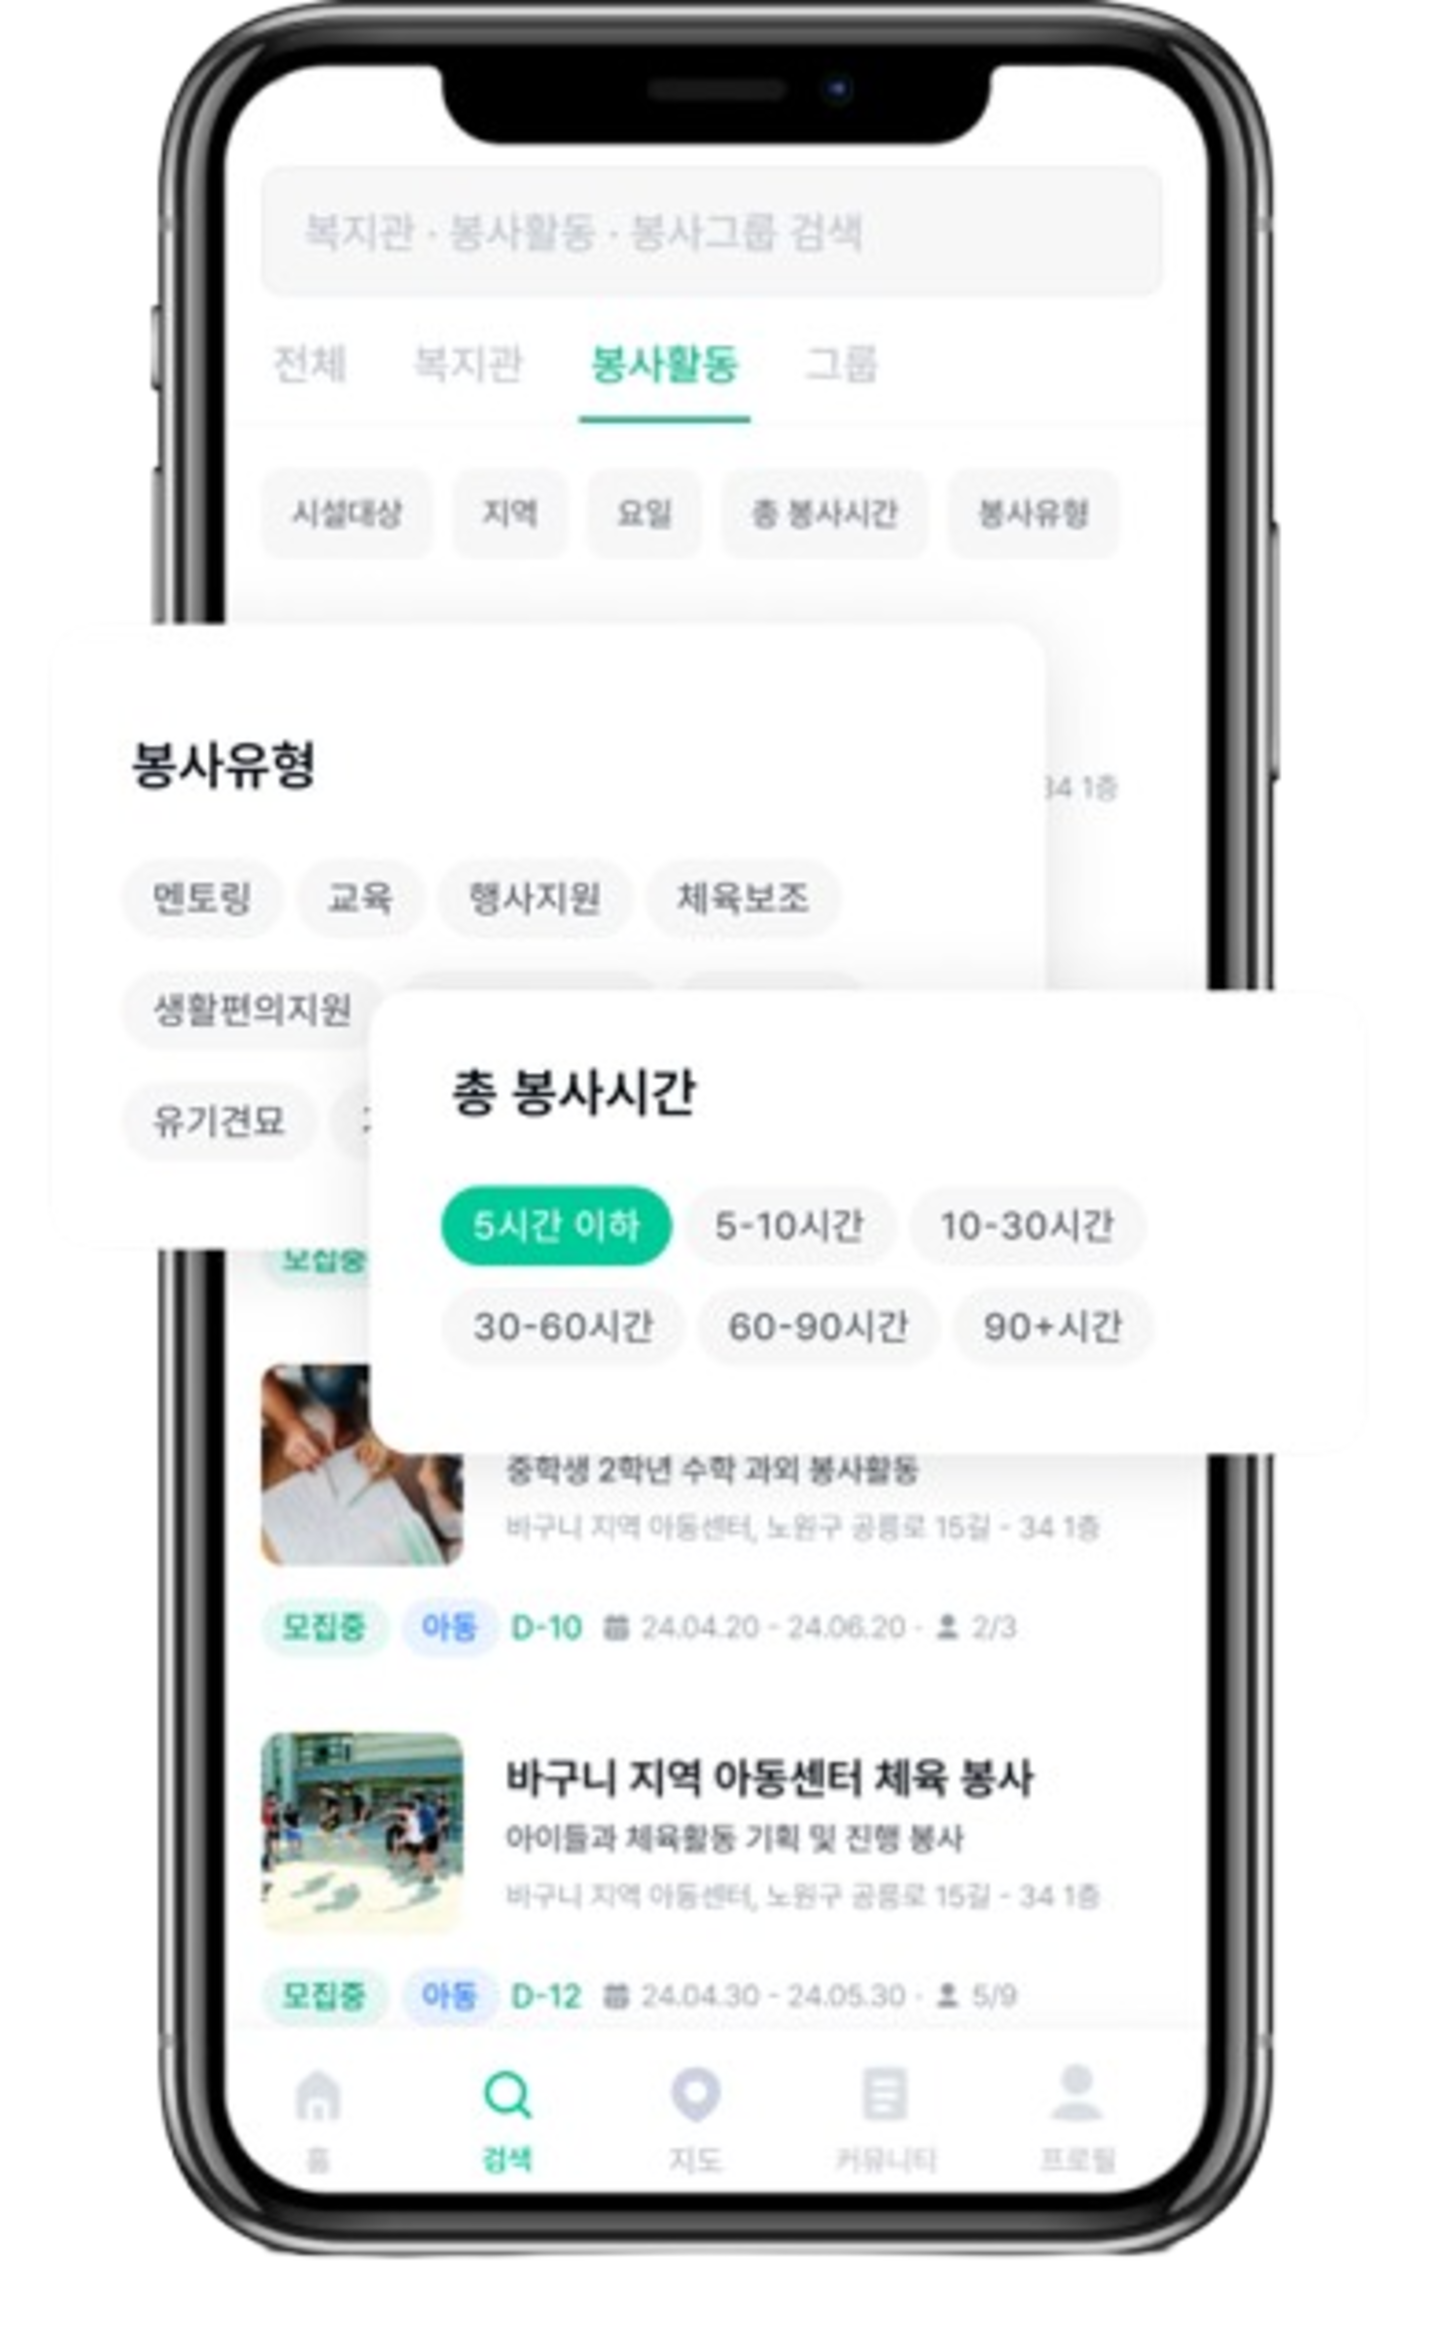
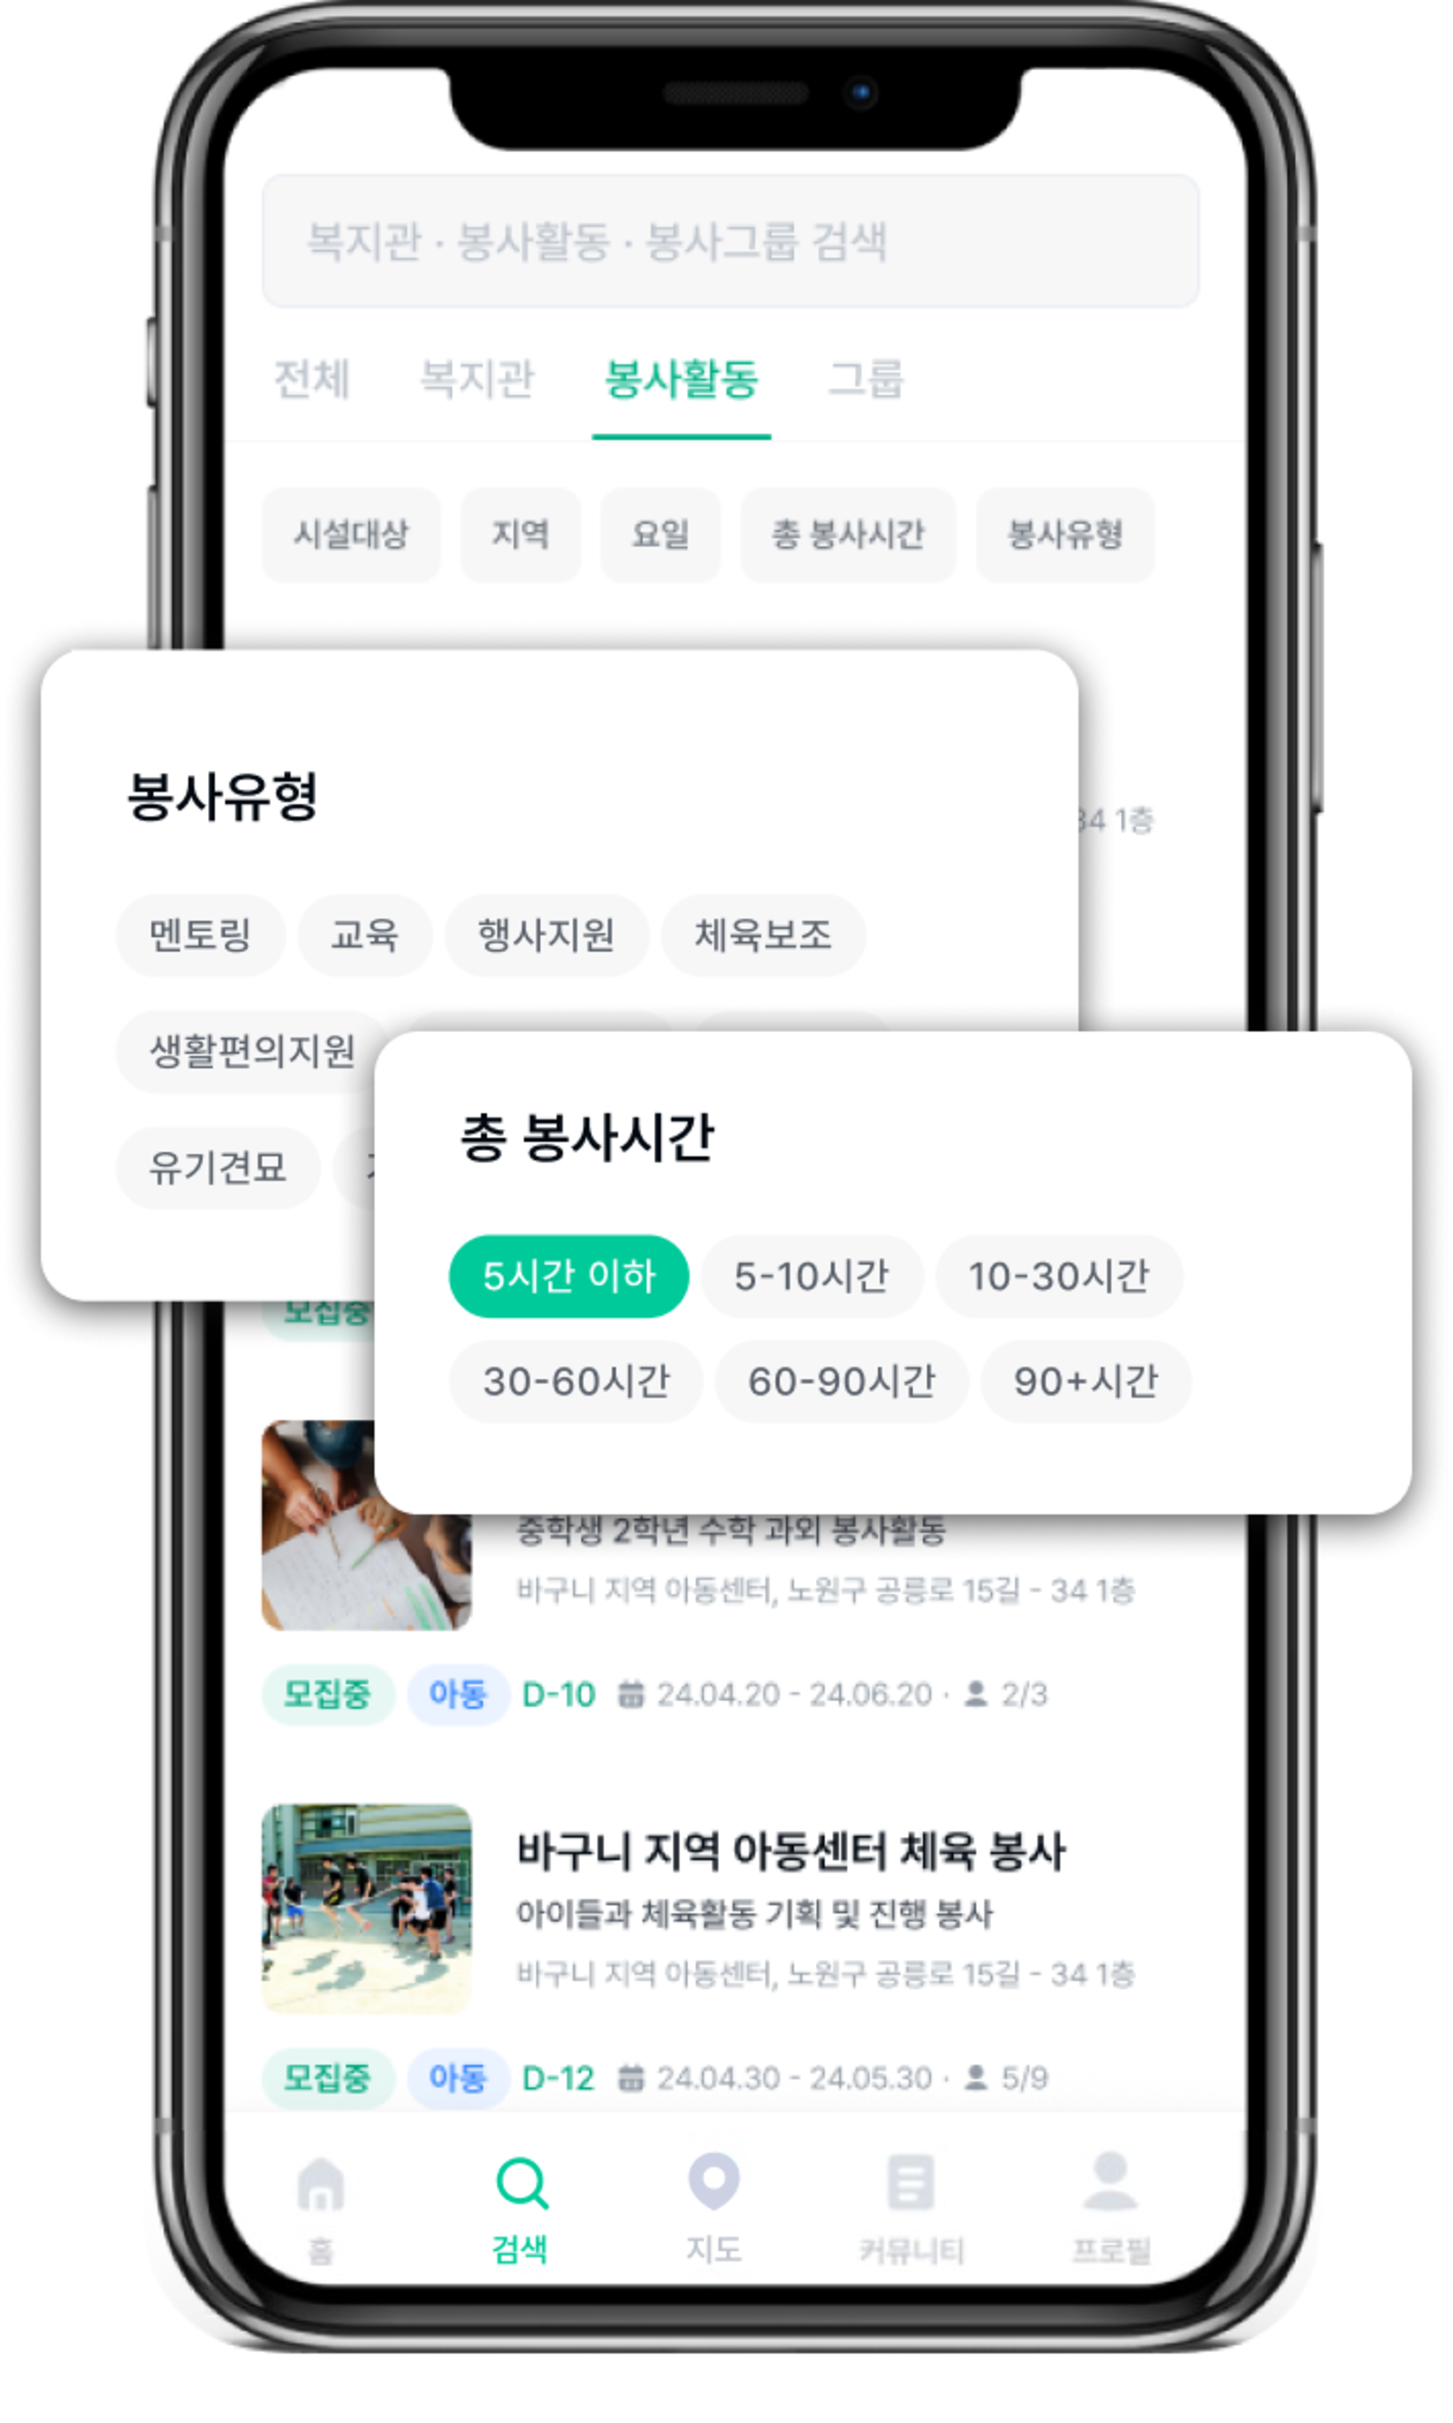
이미지 변경 및 간격 수정

diff --git a/src/components/Section.css b/src/components/Section.css
@@ -33,7 +33,7 @@
     object-fit: contain;
     margin-left: -20%; /* 여백 조절 */
     margin-right: 20%; /* 여백 조절 */
-    margin-top: 1.5%;
+    margin-top: 2.1%;
     transform: scale(1.77); 
     transition: transform 0.5s ease; /* 확대 효과 추가 */
 }
@@ -44,14 +44,14 @@
   object-fit: contain;
   margin-left: -13%; /* 여백 조절 */
   margin-right: 18%; /* 여백 조절 */
-  transform: scale(1.58); 
+  transform: scale(1.51); 
   transition: transform 0.5s ease; /* 확대 효과 추가 */
 }
 
   .section-image3 {
       height: auto;
       object-fit: contain;
-      margin-left: -17%; /* 여백 조절 */
+      margin-left: -21%; /* 여백 조절 */
       margin-right: 20%; /* 여백 조절 */
       transform: scale(1.12); 
       transition: transform 0.5s ease; /* 확대 효과 추가 */
@@ -62,7 +62,7 @@
     width: 160px; /* 기본 크기 설정 */
     height: auto;
     object-fit: contain;
-    margin-left: -13%; /* 여백 조절 */
+    margin-left: -16%; /* 여백 조절 */
     margin-right: 26%; /* 여백 조절 */
     transform: scale(1.1); 
     transition: transform 0.5s ease; /* 확대 효과 추가 */
@@ -111,7 +111,7 @@
         height: auto; /* 비율 유지 */
         margin-left: 0; /* 여백 제거 */
         margin-right: 10px; /* 여백 제거 */
-        transform: scale(1.24); 
+        transform: scale(1.3); 
     }
 
     .section-image2{
@@ -119,7 +119,7 @@
       height: auto; /* 비율 유ㅛ지 */
       margin-left: 0; /* 여백 제거 */
       margin-right: 10px; /* 여백 제거 */
-      transform: scale(1.1); 
+      transform: scale(1.11); 
   }
 
     .section-image3 {
@@ -127,7 +127,7 @@
       height: auto; /* 비율 유지 */
       margin-left: 0; /* 여백 제거 */
       margin-right: 0; /* 여백 제거 */
-      transform: scale(1.15); 
+      transform: scale(1); 
   }
 
     .section-image4{
@@ -135,6 +135,6 @@
       height: auto; /* 비율 유지 */
       margin-left: 0; /* 여백 제거 */
       margin-right: 10px; /* 여백 제거 */
-      transform: scale(1.1); 
+      transform: scale(1); 
   }
 }

diff --git a/src/App.css b/src/App.css
@@ -164,8 +164,8 @@ html, body {
 
 .phone-image-7 {
   top: 40px;
-  left: -120px;
-  width: 31%; /* 기존보다 더 큰 크기 */
+  left: -122px;
+  width: 32%; /* 기존보다 더 큰 크기 */
   height: auto; /* 비율 유지 */
   transform: rotate(8deg) translateY(20px);
   object-fit: contain; /* 이미지 비율 유지하며 잘리지 않게 설정 */
@@ -412,7 +412,7 @@ html, body {
   .phone-image-7 {
     top: 13%;
     left: 59%;
-    width: 25%; 
+    width: 25.6%; 
     height: auto; /* 비율 유지 */
     transform: rotate(8deg) translateY(20px);
   }
